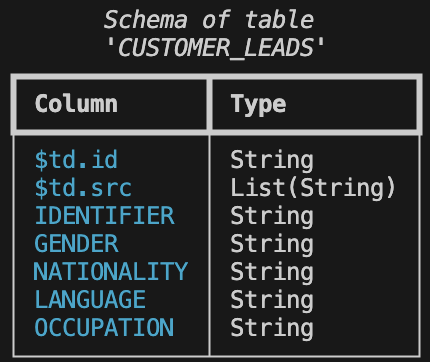
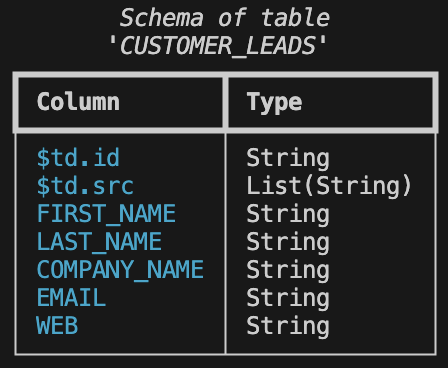
t01

Changed region(s): [[0.0, 0.0, 0.9977, 1.0]]

diff --git a/t01_csv_pub_sub/README.md b/t01_csv_pub_sub/README.md
@@ -171,7 +171,7 @@ some selected columns of this data to a table. For convenience, we have this fun
 )
 
 def publish_customers(tf: td.TableFrame):
-    tf = tf.select(["IDENTIFIER", "NATIONALITY", "BLOOD_TYPE", "WEIGHT","ACADEMIC_DEGREE"])
+    tf = tf.select(["FIRST_NAME","LAST_NAME","COMPANY_NAME","EMAIL","WEB"])
     return tf
 
 ```
@@ -332,6 +332,9 @@ You can now verify that the function was registered successfully bu running the 
 ```
 td fn list --collection CUSTOMERS
 ```
+Output:
+
+<img src="./assets/list_function_both.png" alt="List both functions" height="60">
 
 This should confirm that the `subscribe_customers` has been registered within the collection `CUSTOMERS`.
 
@@ -342,7 +345,7 @@ executed by a trigger. In this step we will manually trigger the subscriber func
 the generated output.
 
 We begin by making sure that there is no output directory present on our system. The following command should error
-out:
+out with `No such file or directory`:
 
 For Linux or macOS:
 ```
@@ -364,9 +367,13 @@ Let's now manually trigger our subscriber function using the following command:
 td fn trigger --collection CUSTOMERS --name subscribe_customers
 ```
 
-As in the case of publisher functions, the triggering of a subscriber fucntion also generates an execution plan and
-sets it in motion. You can more about this in
-[Tabsdata documentation](https://docs.tabsdata.com/latest/guide/04_working_with_functions/main_1.html).
+Remember that you can see the status whether the functions have finished executing by using the following command:
+
+```
+td exec list-trxs
+```
+
+If the function has finished executing, you will see Published in the status.
 
 
 ### 3.3 Checking the subscriber output:
@@ -377,9 +384,9 @@ directory.
 Here is some sample data from `customer_leads.jsonl`:
 
 ```
-{"IDENTIFIER":"74-93/03","GENDER":"Male","NATIONALITY":"Portuguese","LANGUAGE":"Italian","OCCUPATION":"Hod Carrier"}
-{"IDENTIFIER":"68-52/94","GENDER":"Female","NATIONALITY":"Costa Rican","LANGUAGE":"Swati","OCCUPATION":"Aeronautical Engineer"}
-{"IDENTIFIER":"37-41/89","GENDER":"Male","NATIONALITY":"Cuban","LANGUAGE":"Luxembourgish","OCCUPATION":"Telex Operator"}
+{"FIRST_NAME":"Peter","LAST_NAME":"Gutierres","COMPANY_NAME":"Niagara Custombuilt Mfg Co","EMAIL":"peter_gutierres@yahoo.com","WEB":"http://www.niagaracustombuiltmfgco.co.uk"}
+{"FIRST_NAME":"Octavio","LAST_NAME":"Salvadore","COMPANY_NAME":"Practical Periphrals","EMAIL":"octavio.salvadore@yahoo.com","WEB":"http://www.practicalperiphrals.co.uk"}
+{"FIRST_NAME":"Martha","LAST_NAME":"Teplica","COMPANY_NAME":"Curtin, Patricia M Esq","EMAIL":"mteplica@teplica.co.uk","WEB":"http://www.curtinpatriciamesq.co.uk"}
 ```
 
 As you see from the output file, only the columns selected from the `customers.csv` defined in `publisher.py` file have
@@ -395,11 +402,11 @@ present in the `customers_01.csv` file that we loaded via the publisher when we 
 
 Here are details of 3 new customers from the 20 who have been added:
 
-| IDENTIFIER | NAME       | GENDER | EMAIL                        | BIRTHDATE | NATIONALITY | LANGUAGE | BLOOD_TYPE | HEIGHT | WEIGHT | UNIVERSITY                            | ACADEMIC_DEGREE | TITLE | OCCUPATION         |
-|-------------|------------|--------|-----------------------------|------------|--------------|-----------|-------------|--------|--------|----------------------------------------|------------------|-------|---------------------|
-| 21-12/62     | Louetta M   | Female | drainage2086@duck.com       | 4-Nov      | Swiss        | Zulu      | A+          | 1.79   | 38     | Western Connecticut State University (WCSU) | PhD              | Mr.   | Medical Technician  |
-| 97-89/11     | Elden A     | Female | livestock1811@example.org   | 9-May      | Dominican    | Yiddish   | A+          | 1.8    | 74     | Florida Gulf Coast University (FGCU)  | PhD              | Ms.   | Professor            |
-| 92-54/93     | Amina M     | Female | dynamic2052@duck.com        | 24-Dec     | Salvadorian  | Greek     | B+          | 1.66   | 42     | University of South Florida (USF)     | Bachelor          | B.Sc  | Town Planner         |
+| First Name | Last Name  | Company                       | Address         | Ward                              | County         | Postal Code | Phone 1       | Phone 2       | Email                         | Website                                   |
+|-------------|-------------|--------------------------------|------------------|--------------------------------------|----------------|----------------|------------------|------------------|--------------------------------------|------------------------------------------------|
+| Aleshia     | Tomkiewicz | Alan D Rosenburg Cpa Pc       | 14 Taylor St      | St. Stephens Ward                | Kent            | CT2 7PP          | 01835-703597   | 01944-369967   | atomkiewicz@hotmail.com   | [alandrosenburgcpapc.co.uk](http://www.alandrosenburgcpapc.co.uk) |
+| Evan         | Zigomalas     | Cap Gemini America                | 5 Binney St        | Abbey Ward                            | Buckinghamshire | HP11 2AX          | 01937-864715   | 01714-737668   | evan.zigomalas@gmail.com      | [capgeminiamerica.co.uk](http://www.capgeminiamerica.co.uk) |
+| France       | Andrade         | "Elliott, John W Esq"              | 8 Moor Place      | East Southbourne and Tuckton W | Bournemouth     | BH6 3BE          | 01347-368222   | 01935-821636   | france.andrade@hotmail.com    | [elliottjohnwesq.co.uk](http://www.elliottjohnwesq.co.uk) |
 
 <br/>
 
@@ -452,6 +459,14 @@ Use the following command to trigger the publisher to read new input file:
 td fn trigger --collection CUSTOMERS --name publish_customers
 ```
 
+Remember that you can see the status whether the functions have finished executing by using the following command:
+
+```
+td exec list-trxs
+```
+
+If the function has finished executing, you will see Published in the status.
+
 Even though there is only one subscriber that was executed on refresh of the published table, it will work for any
 number of subscribers that are registered.
 
@@ -462,9 +477,9 @@ Once the publisher has been executed, you can check the `customer_leads.jsonl` f
 Here is some sample data from the new `customer_leads.jsonl`:
 
 ```
-{"IDENTIFIER":"21-12/62","GENDER":"Female","NATIONALITY":"Swiss","LANGUAGE":"Zulu","OCCUPATION":"Medical Technician"}
-{"IDENTIFIER":"97-89/11","GENDER":"Female","NATIONALITY":"Dominican","LANGUAGE":"Yiddish","OCCUPATION":"Professor"}
-{"IDENTIFIER":"92-54/93","GENDER":"Female","NATIONALITY":"Salvadorian","LANGUAGE":"Greek","OCCUPATION":"Town Planner"}
+{"FIRST_NAME":"Aleshia","LAST_NAME":"Tomkiewicz","COMPANY_NAME":"Alan D Rosenburg Cpa Pc","EMAIL":"atomkiewicz@hotmail.com","WEB":"http://www.alandrosenburgcpapc.co.uk"}
+{"FIRST_NAME":"Evan","LAST_NAME":"Zigomalas","COMPANY_NAME":"Cap Gemini America","EMAIL":"evan.zigomalas@gmail.com","WEB":"http://www.capgeminiamerica.co.uk"}
+{"FIRST_NAME":"France","LAST_NAME":"Andrade","COMPANY_NAME":"Elliott, John W Esq","EMAIL":"france.andrade@hotmail.com","WEB":"http://www.elliottjohnwesq.co.uk"}
 ```
 
 The above users were not present in the JSON file before, and have been added after the publisher was triggered with
